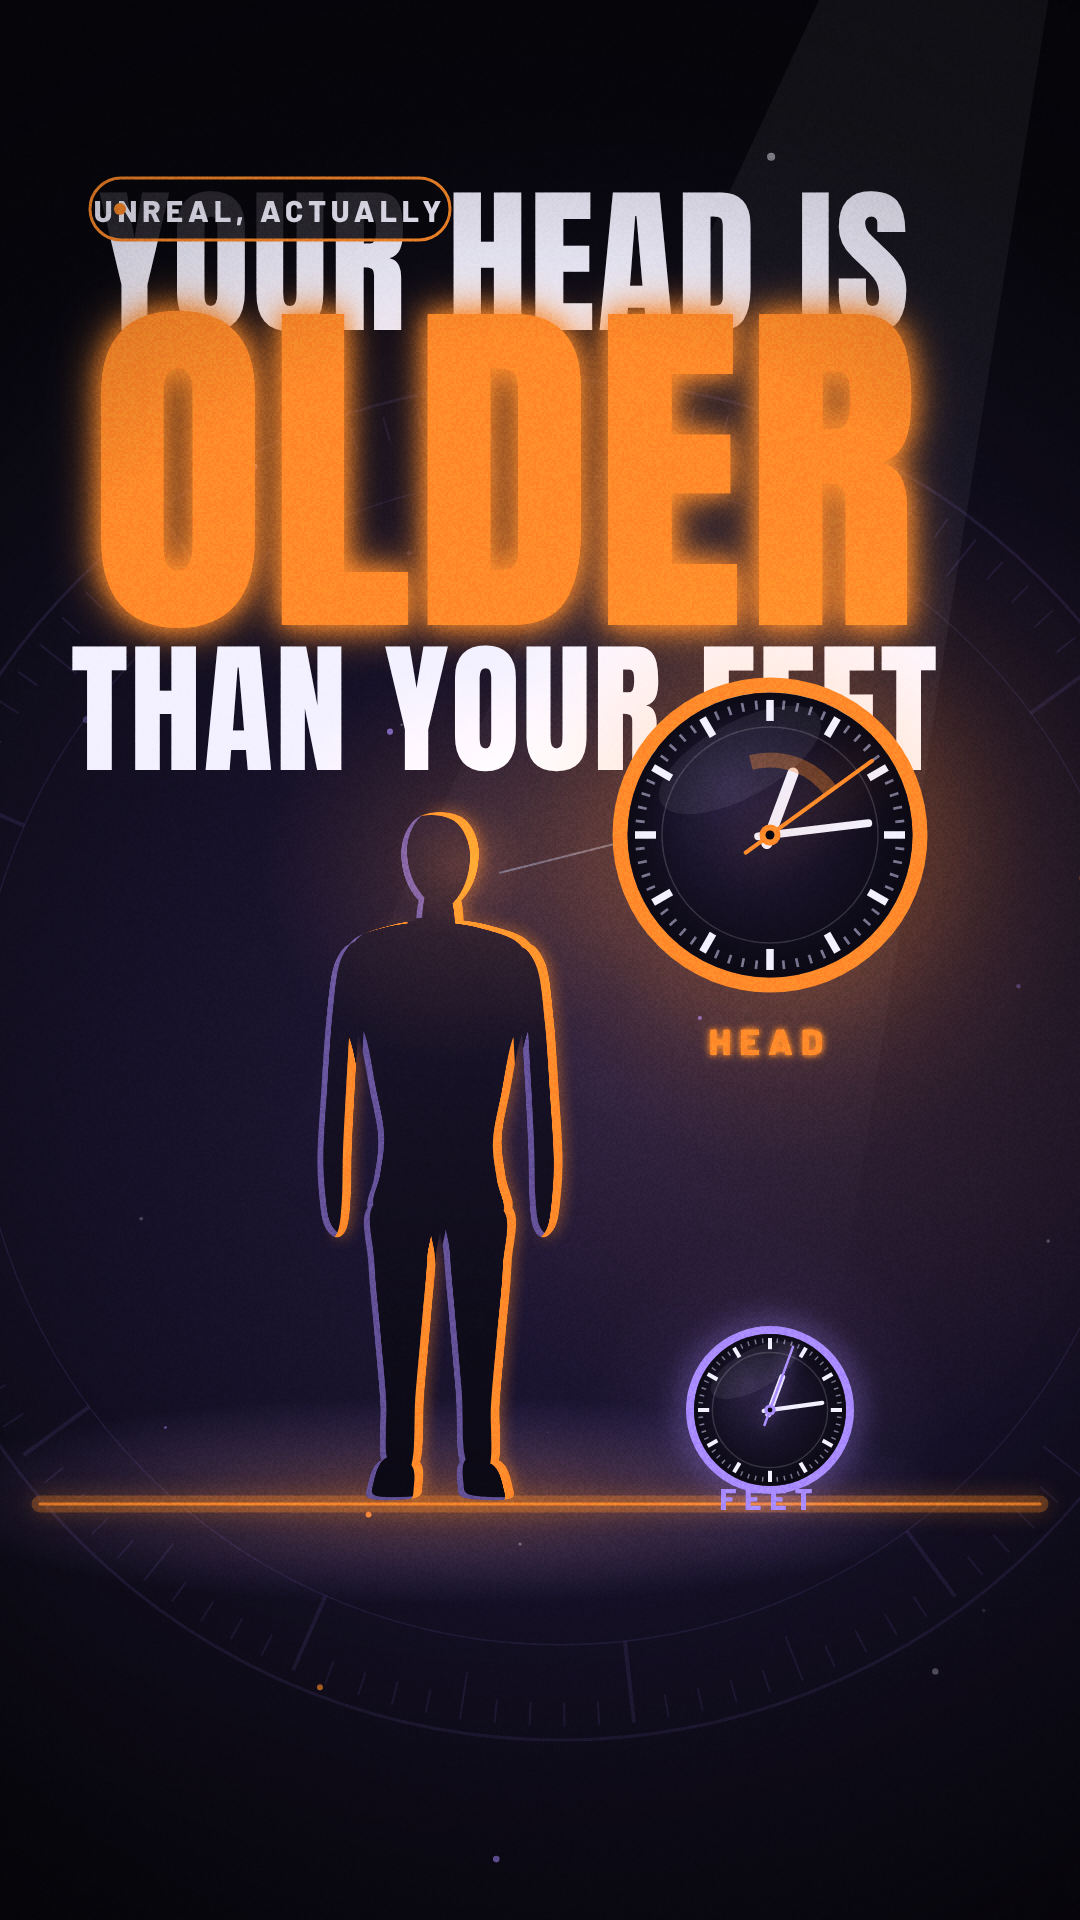
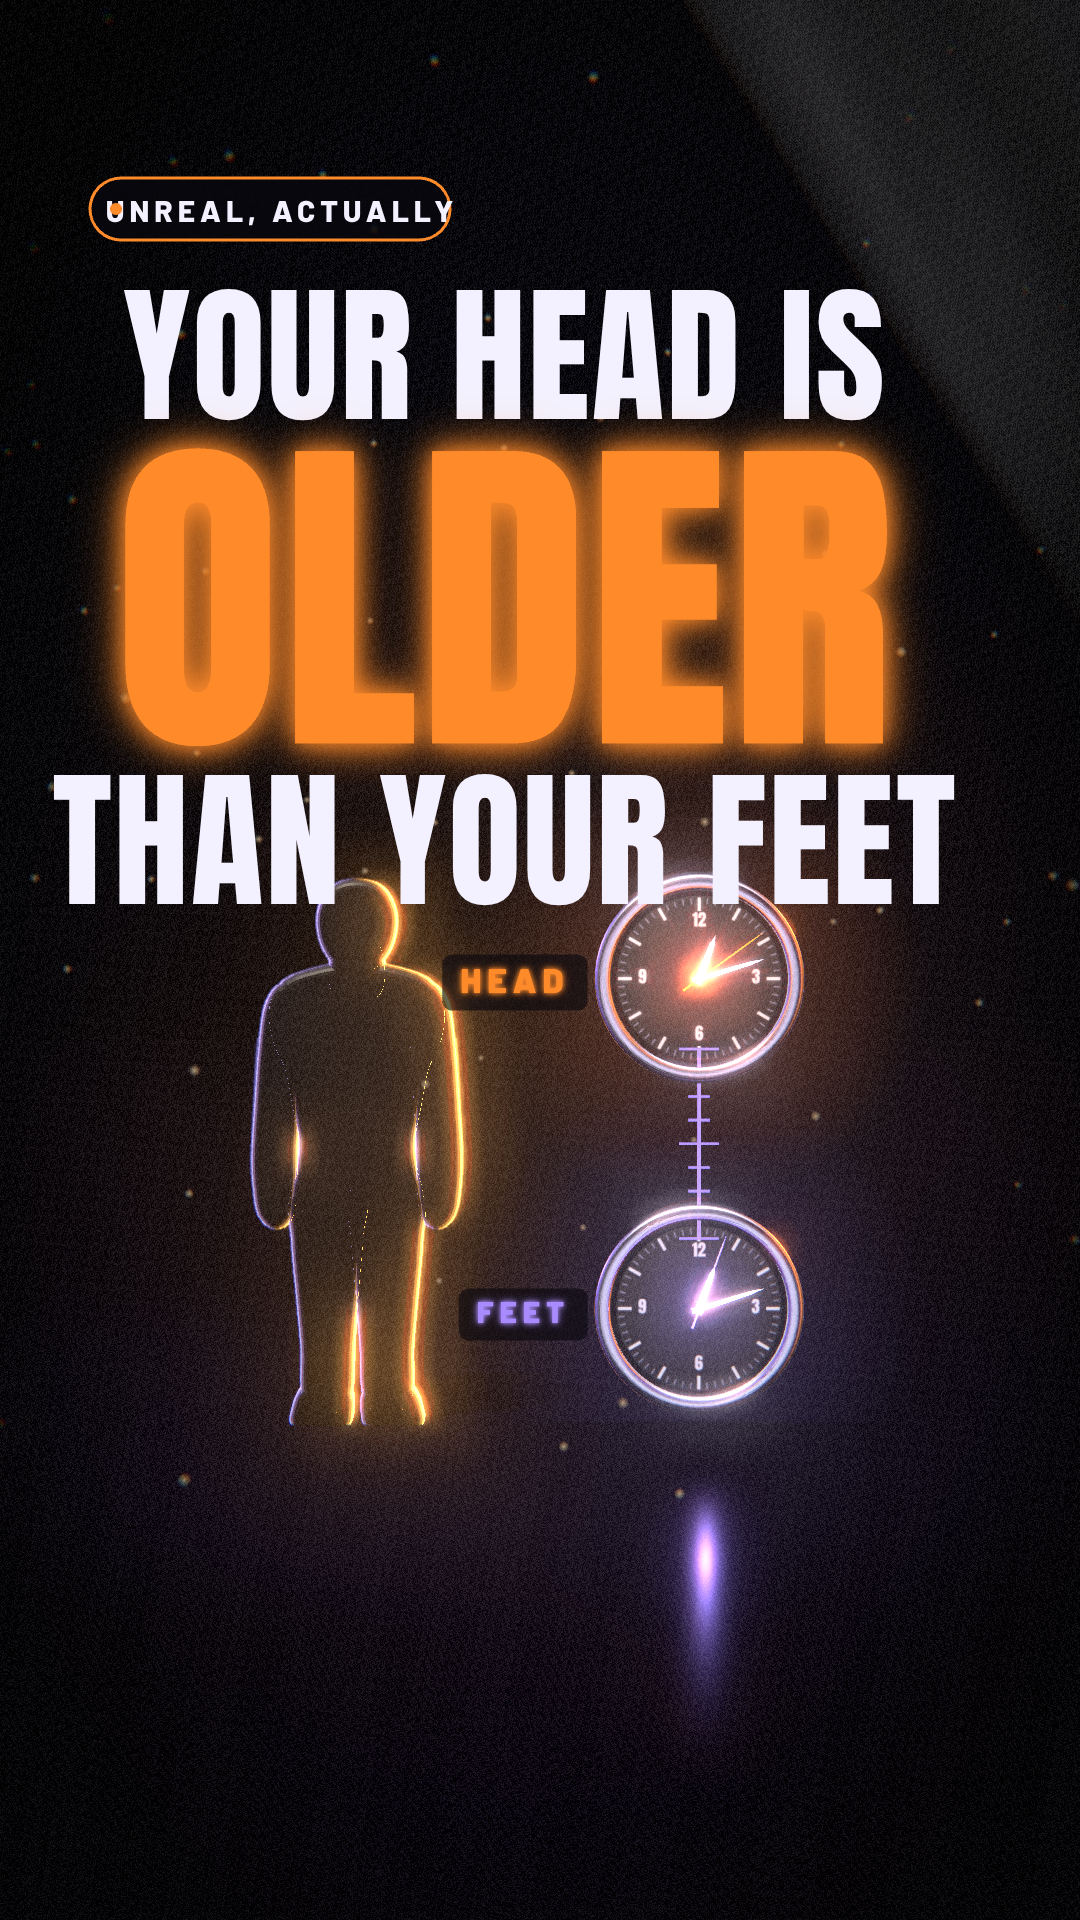
Tune 3D shots, cover, previews

diff --git a/channels/unreal-actually/ep01-head-older-than-feet/scene.js b/channels/unreal-actually/ep01-head-older-than-feet/scene.js
@@ -187,7 +187,7 @@ const pxR = (R, wp) => { const d = camera.position.distanceTo(wp), h = 2 * d * M
 const anchorOf = (obj, R) => { const wp = new THREE.Vector3(); obj.getWorldPosition(wp); const p = proj(wp); return { x: p[0], y: p[1], r: pxR(R, wp) }; };
 const spot = (c, k, pos, tgt, ang, shadow) => { const l = new THREE.SpotLight(c, k, 40, ang, .6, 1.2); l.position.set(...pos); const tg = new THREE.Object3D(); tg.position.set(...tgt); l.target = tg; l.castShadow = !!shadow; if (shadow) { l.shadow.mapSize.set(1024, 1024); l.shadow.bias = -.0005; } const gg = new THREE.Group(); gg.add(l, tg); return gg; };
 const dir = (c, k, pos, tgt) => { const l = new THREE.DirectionalLight(c, k); l.position.set(...pos); l.target.position.set(...tgt); const gg = new THREE.Group(); gg.add(l, l.target); return gg; };
-const floorMesh = (r, y, rough) => { const m = new THREE.Mesh(new THREE.CircleGeometry(r, 64), mat({ color: 0x14102a, roughness: rough == null ? .42 : rough, metalness: .7, envMap, envMapIntensity: .8, roughnessMap: scratchTex(9) })); m.rotation.x = -Math.PI / 2; m.position.y = y; m.receiveShadow = true; return m; };
+const floorMesh = (r, y, rough) => { const m = new THREE.Mesh(new THREE.CircleGeometry(r, 64), mat({ color: 0x14102a, roughness: rough == null ? .42 : rough, metalness: .7, envMap, envMapIntensity: .25, roughnessMap: scratchTex(9) })); m.rotation.x = -Math.PI / 2; m.position.y = y; m.receiveShadow = true; return m; };
 
 // ===== A: the figure with head and feet clocks (b01, b02, b05, b15) =====
 const A = shot("A", [0x08070d, .035]);
@@ -404,7 +404,7 @@ G.g.add(lightCone(TXT.clone(), 8, .2, 2.4, .08)); G.g.children[G.g.children.leng
 G.g.add(dustField(150, [8, 5, 5], 0xffd9b0, .04, 61));
 const dialS = t => { let a = 0; for (let s = S("b12") + .6; s < t; s += 1 / 30) { const k = smooth((s - T.tSlow0) / (T.tSlow1 - T.tSlow0)); a += lerp(5.2, 1.0, k) / 30; } return a; };
 G.update = t => { const ka = smooth((t - T.tSlow0) / (T.tSlow1 - T.tSlow0)); bigC.userData.set(dialS(t), { hot: 1 + .3 * (1 - ka) }); knob.rotation.z = ka * 2.6; const kp = anchorOf(knob, .4); G.A = { knob: kp }; };
-const pathG = [{ t: S("b12"), p: [.5, -.4, 10.5], l: [.3, -.6, 0], f: 50, fp: [1.15, -.7, .2], ap: .0010 }, { t: T.tSlow0, p: [.3, -.4, 10], l: [.3, -.6, 0], f: 50, fp: [1.15, -.7, .2], ap: .0010 }, { t: T.tSlow1, p: [.1, -.4, 9.6], l: [.3, -.6, 0], f: 50, fp: [-.5, .1, .2], ap: .0010 }, { t: T.th0, p: [.1, -.4, 9.4], l: [.3, -.6, 0], f: 50, fp: [-.5, .1, .2], ap: .0010 }];
+const pathG = [{ t: S("b12"), p: [.2, -.4, 11], l: [.2, -.6, 0], f: 50, fp: [1.15, -.7, .2], ap: .0010 }, { t: T.tSlow0, p: [.2, -.4, 10.6], l: [.2, -.6, 0], f: 50, fp: [1.15, -.7, .2], ap: .0010 }, { t: T.tSlow1, p: [.2, -.4, 10.2], l: [.2, -.6, 0], f: 50, fp: [-.5, .1, .2], ap: .0010 }, { t: T.th0, p: [.2, -.4, 10], l: [.2, -.6, 0], f: 50, fp: [-.5, .1, .2], ap: .0010 }];
 
 // ===== H: dark 3D city grid, the pin drifts and snaps back (b12 second half) =====
 const Hh = shot("H", [0x08070d, .018]);
@@ -486,7 +486,7 @@ function setShot(sh, path, t, tt) {
   sh.update(t);
 }
 window.__seek = function (t) {
-  if (COVER) { setShot(A, [{ t: 0, p: [.4, 1.2, 8.2], l: [.5, .85, 0], f: 50, fp: [.5, 1.2, 0], ap: .0004 }], 0.5); HC.userData.set(21.2, { angle: 54, hot: 1.4 }); FC.userData.set(15, { angle: 20, hot: .8 });
+  if (COVER) { setShot(A, [{ t: 0, p: [.6, 1.7, 10.5], l: [.6, 1.52, 0], f: 60, fp: [.6, 1.2, 0], ap: .0002 }], 0.5); HC.userData.set(21.2, { angle: 54, hot: 1.4 }); FC.userData.set(15, { angle: 20, hot: .8 });
     A.A = { head: anchorOf(HC, .3), feet: anchorOf(FC, .3) }; filmPass.uniforms.time.value = .5; composer.render(); ov.drawCover(A.A); return; }
   const shk = shakeAt(t);
   let cur = SH[SH.length - 1]; for (const s of SH) if (t >= s[0] && t < s[1]) { cur = s; break; }

diff --git a/channels/unreal-actually/ep01-head-older-than-feet/overlay.js b/channels/unreal-actually/ep01-head-older-than-feet/overlay.js
@@ -105,9 +105,9 @@ export function createOverlay(T, TH, cv) {
       const sh0 = S("b10") + .15;
       if (A.gap) { const k = A.gap.s;
         const a1 = smooth((t - W("b09", "about ninety")) / .3) * (1 - smooth((t - sh0) / .3));
-        if (a1 > 0) { txt("≈ 0.000 000 09 s", A.gap.x, A.gap.y - 70 * k, { size: 72, color: HOT, glow: 20, a: a1 }); }
+        if (a1 > 0) { txt("≈ 0.000 000 09 s", A.gap.x, A.gap.y - 190 * k, { size: 72, color: HOT, glow: 20, a: a1 }); }
         const a2 = smooth((t - W("b09", "ninety")) / .3) * (1 - smooth((t - sh0) / .3));
-        if (a2 > 0) txt("90 billionths of a second", A.gap.x, A.gap.y + 100 * k, { f: BARL, w: 800, size: 40, color: TXT, ls: 1, a: a2, glow: 8, gcol: ABY }); }
+        if (a2 > 0) txt("90 billionths of a second", A.gap.x, A.gap.y + 210 * k, { f: BARL, w: 800, size: 40, color: TXT, ls: 1, a: a2, glow: 8, gcol: ABY }); }
       if (t >= W("b10", "But real")) { const u = (t - W("b10", "But real")) / 1.1; txt("REAL", 505, 560, { size: 250, color: HOT, glow: 40, a: smooth(u * 3) * (1 - smooth((t - E("b10") + .5) / .4)), sc: 1 + .12 * (1 - eo3(u * 1.6)) }); }
     }
     if (t >= S("b11") && t < S("b12")) { const g = W("b11", "GPS"); txt("GPS", 130, 330, { size: 150, color: TXT, glow: 24, gcol: HOT, align: "left", ls: 6, a: smooth((t - g) / .15), sc: 1 + .4 * (1 - eo3((t - g) / .16)) }); }
@@ -124,9 +124,10 @@ export function createOverlay(T, TH, cv) {
 
   function drawCover(A) {
     ctx.setTransform(1, 0, 0, 1, 0, 0); ctx.clearRect(0, 0, 1080, 1920);
-    [["YOUR HEAD IS", TXT, 840, 160, 330], ["OLDER", HOT, 820, 440, 625], ["THAN YOUR FEET", TXT, 840, 160, 770]].forEach(([s, c, w, mx, base]) => txt(s, 505, base, { size: fitSize(s, w, mx), color: c, glow: c === HOT ? 46 : 0, gcol: HOT, ls: 2 }));
+    ctx.save(); ctx.font = `400 100px ${ANTON}`; const capR = ctx.measureText("H").actualBoundingBoxAscent / 100; ctx.restore(); let yy = 290;
+    [["YOUR HEAD IS", TXT, 840, 150], ["OLDER", HOT, 780, 340], ["THAN YOUR FEET", TXT, 880, 150]].forEach(([s, c, w, mx]) => { const size = fitSize(s, w, mx), base = yy + capR * size; yy = base + 32; txt(s, 505, base, { size, color: c, glow: c === HOT ? 46 : 0, gcol: HOT, ls: 2 }); });
     ctx.save(); rrect(90, 178, 360, 62, 31); ctx.fillStyle = col(ABY, .85); ctx.fill(); ctx.strokeStyle = HOT; ctx.lineWidth = 3; ctx.stroke(); ctx.restore();
-    txt("UNREAL, ACTUALLY", 270, 222, { f: BARL, w: 800, size: 30, ls: 5 }); ctx.fillStyle = HOT; ctx.beginPath(); ctx.arc(120, 209, 6, 0, 6.3); ctx.fill();
+    txt("UNREAL, ACTUALLY", 282, 222, { f: BARL, w: 800, size: 30, ls: 5 }); ctx.fillStyle = HOT; ctx.beginPath(); ctx.arc(116, 209, 6, 0, 6.3); ctx.fill();
     if (A && A.head) { tag("HEAD", A.head.x - A.head.r - 20, A.head.y + 14, { color: HOT, align: "right", size: 34 }); tag("FEET", A.feet.x - A.feet.r - 20, A.feet.y + 14, { color: UV, align: "right", size: 30 }); }
   }
 
